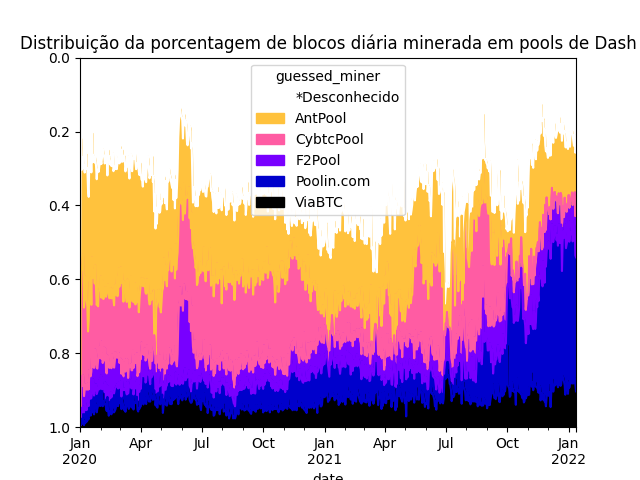
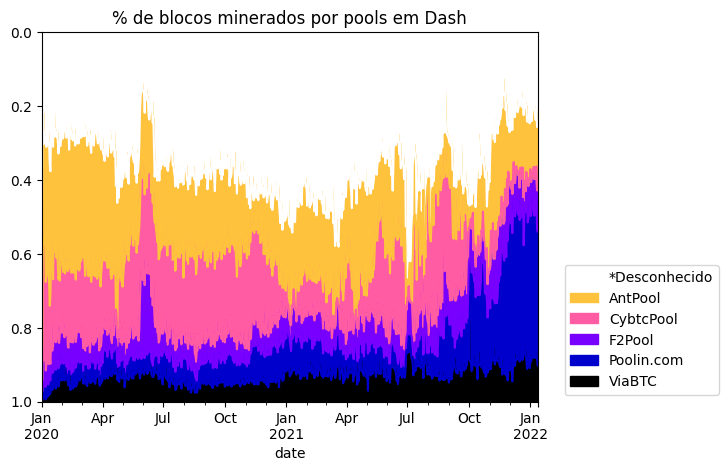
commit

diff --git a/main.py b/main.py
@@ -1,6 +1,8 @@
 import datetime
 import pandas as pd
 import matplotlib.pyplot as plt
+# from matplotlib.dates import YearLocator, DateFormatter
+import numpy as np
 from pathlib import Path
 
 def read_data(name, capitalized_name, start_date, end_date, miner_field, change_unknown):
@@ -13,8 +15,8 @@ def read_data(name, capitalized_name, start_date, end_date, miner_field, change_
     while current_date != end_date_strp:
         file = '/home/agasta/hdd/TCC/' + capitalized_name + '/blockchair_' + name + '_blocks_' + datetime.datetime.strftime(current_date, '%Y%m%d') + '.tsv.gz'
         files.append(file)
-        current_date = start_date_strp + datetime.timedelta(days=i)
         i += 1
+        current_date = start_date_strp + datetime.timedelta(days=i)
     #
     result = []
     for file in files:
@@ -56,24 +58,58 @@ def plot_coin(name, capitalized_name, start_date, end_date, miner_field, change_
     df['date'] = pd.to_datetime(df['date'])
 
     plot = df.pivot_table(index="date", columns=miner_field, values='percent').fillna(0).plot.area(colormap="gnuplot2_r")
-    plot.set_title("Distribuição da porcentagem de blocos diária minerada em pools de " + capitalized_name, color="black")
+    plot.set_title("% de blocos minerados por pools em " + capitalized_name, color="black")
     plot.set_ylim([0, 1])
     plot.invert_yaxis()
-    plt.savefig('figs/'+ name + '_' + start_date + '_' + end_date + '.png')
+    plt.legend(bbox_to_anchor=(1.04,0), loc="lower left")
+    plt.savefig('figs/'+ name + '_' + start_date + '_' + end_date + '.png', bbox_inches="tight")
     # plt.show()
     print("Finished " + capitalized_name + ' (' + start_date + ' -> ' + end_date + ')')
 
+def plot_gini(name, capitalized_name, start_date, end_date):
+    df = pd.read_csv('dataframes/'+ name + '_' + start_date + '_' + end_date + '.csv')
+    df['date'] = pd.to_datetime(df['date'])
+    df = df.groupby(['date', 'guessed_miner'])['blocks'].sum()
+    print(df)
+
+def plot_upc(name, capitalized_name, start_date, end_date):
+    df = pd.read_csv('dataframes/'+ name + '_' + start_date + '_' + end_date + '.csv')
+    df = df.groupby(['date'])['blocks'].agg(['mean', 'std']).fillna(0)
+    df['upc'] = df['std']/df['mean']
+    df = df.drop(['std', 'mean'], axis=1)
+    plot = df.plot()
+    plot.set_title('Coeficiente de Proporção de Uniformidade do ' + capitalized_name)
+    plot.set_ylim([0, None])
+    plot.margins(x=0)
+    # plot.xaxis.set_major_locator(YearLocator())
+    # plot.xaxis.set_major_formatter(DateFormatter('%Y-%m-d'))
+    plt.savefig('figs/upc/'+ name + '_' + start_date + '_' + end_date + '.png', bbox_inches="tight")
+    # print(df)
+
 def main():
-    plot_coin('bitcoin', 'Bitcoin', '20090109', '20220113', 'guessed_miner', True)
-    plot_coin('bitcoin', 'Bitcoin', '20200101', '20220113', 'guessed_miner', True)
-    plot_coin('bitcoin-cash', 'BitcoinCash', '20090109', '20220113', 'guessed_miner', True)
-    plot_coin('bitcoin-cash', 'BitcoinCash', '20200101', '20220113', 'guessed_miner', True)
-    plot_coin('dash', 'Dash', '20140119', '20220113', 'guessed_miner', True)
-    plot_coin('dash', 'Dash', '20200101', '20220113', 'guessed_miner', True)
-    plot_coin('ethereum', 'Ethereum', '20150730', '20220113', 'miner', False)
-    plot_coin('ethereum', 'Ethereum', '20200101', '20220113', 'miner', False)
-    plot_coin('litecoin', 'Litecoin', '20111012', '20220113', 'guessed_miner', True)
-    plot_coin('litecoin', 'Litecoin', '20200101', '20220113', 'guessed_miner', True)
+    plot_gini('bitcoin', 'Bitcoin', '20090109', '20220113')
+
+    # plot_upc('bitcoin', 'Bitcoin', '20090109', '20220113')
+    # plot_upc('bitcoin', 'Bitcoin', '20200101', '20220113')
+    # plot_upc('bitcoin-cash', 'BitcoinCash', '20090109', '20220113')
+    # plot_upc('bitcoin-cash', 'BitcoinCash', '20200101', '20220113')
+    # plot_upc('dash', 'Dash', '20140119', '20220113')
+    # plot_upc('dash', 'Dash', '20200101', '20220113')
+    # plot_upc('ethereum', 'Ethereum', '20150730', '20220113')
+    # plot_upc('ethereum', 'Ethereum', '20200101', '20220113')
+    # plot_upc('litecoin', 'Litecoin', '20111012', '20220113')
+    # plot_upc('litecoin', 'Litecoin', '20200101', '20220113')
+    
+    # plot_coin('bitcoin', 'Bitcoin', '20090109', '20220113', 'guessed_miner', True)
+    # plot_coin('bitcoin', 'Bitcoin', '20200101', '20220113', 'guessed_miner', True)
+    # plot_coin('bitcoin-cash', 'BitcoinCash', '20090109', '20220113', 'guessed_miner', True)
+    # plot_coin('bitcoin-cash', 'BitcoinCash', '20200101', '20220113', 'guessed_miner', True)
+    # plot_coin('dash', 'Dash', '20140119', '20220113', 'guessed_miner', True)
+    # plot_coin('dash', 'Dash', '20200101', '20220113', 'guessed_miner', True)
+    # plot_coin('ethereum', 'Ethereum', '20150730', '20220113', 'miner', False)
+    # plot_coin('ethereum', 'Ethereum', '20200101', '20220113', 'miner', False)
+    # plot_coin('litecoin', 'Litecoin', '20111012', '20220113', 'guessed_miner', True)
+    # plot_coin('litecoin', 'Litecoin', '20200101', '20220113', 'guessed_miner', True)
 
 if __name__ == "__main__":
     main()
